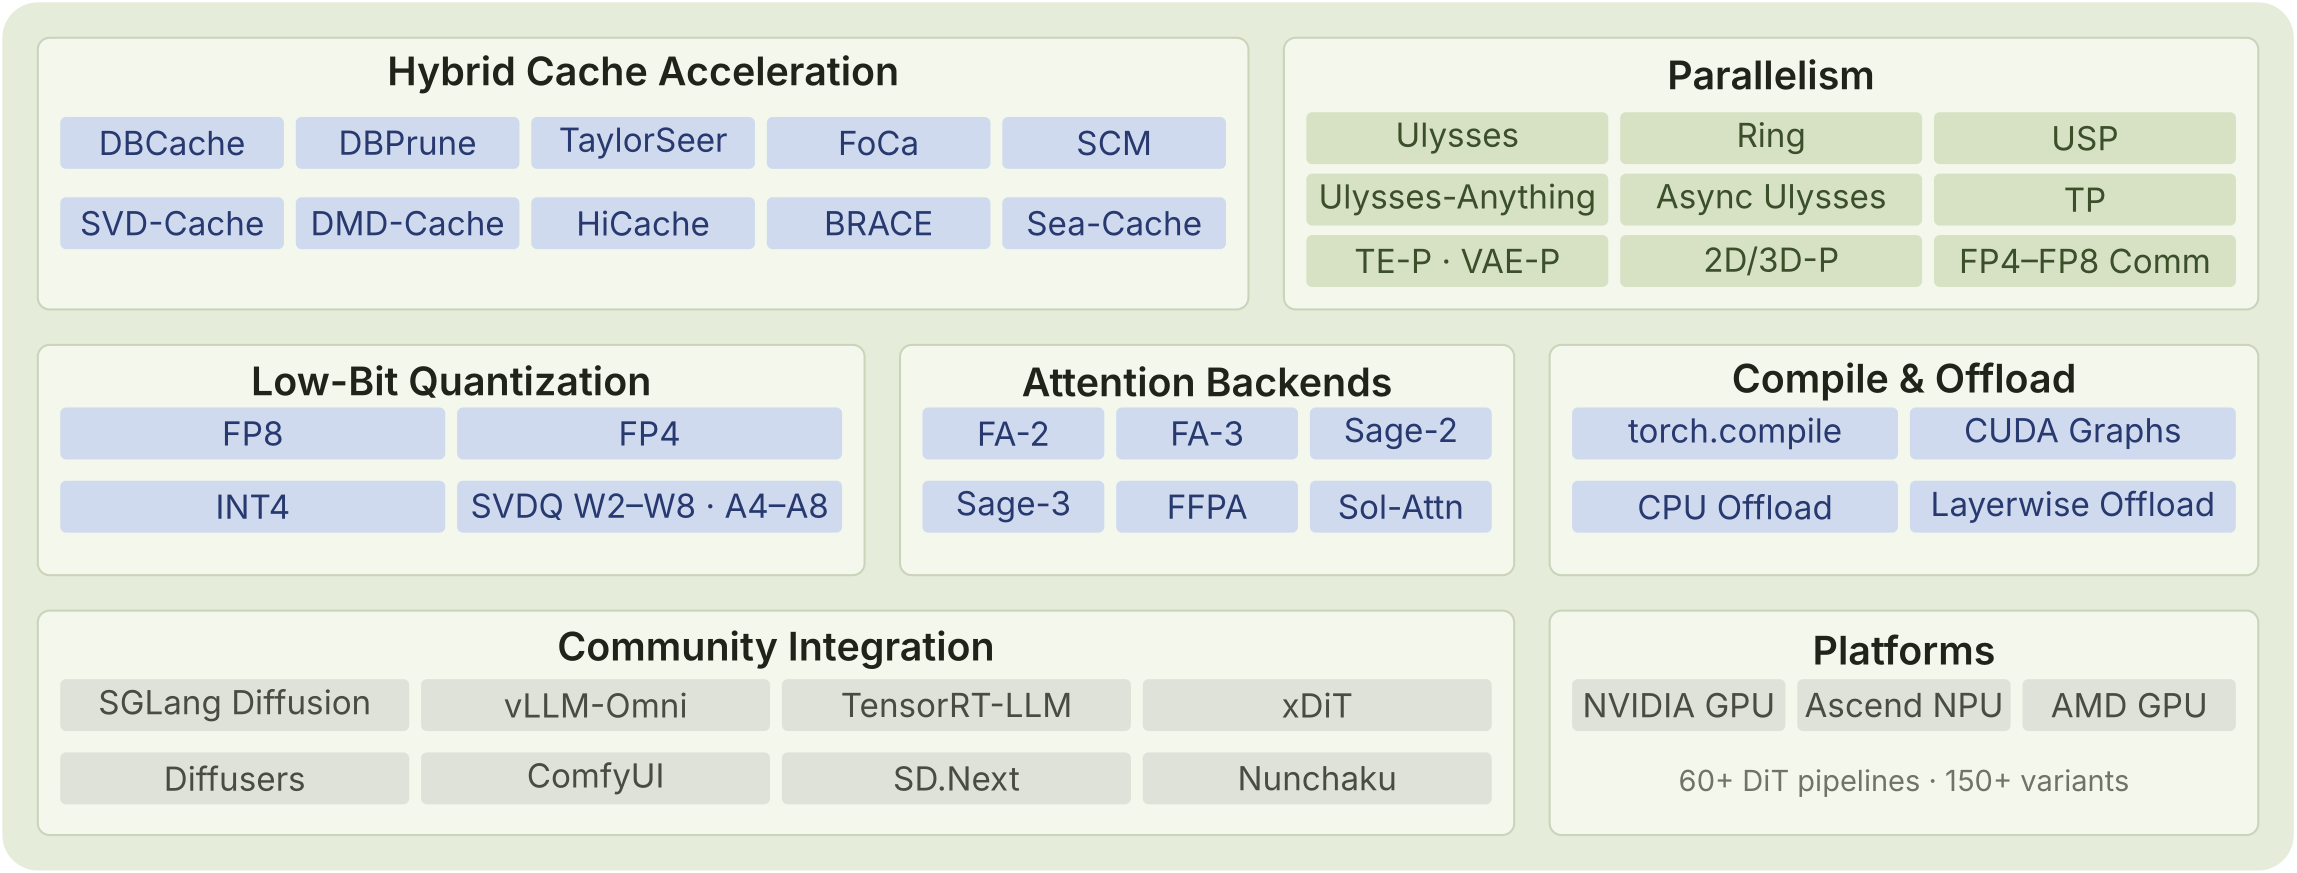
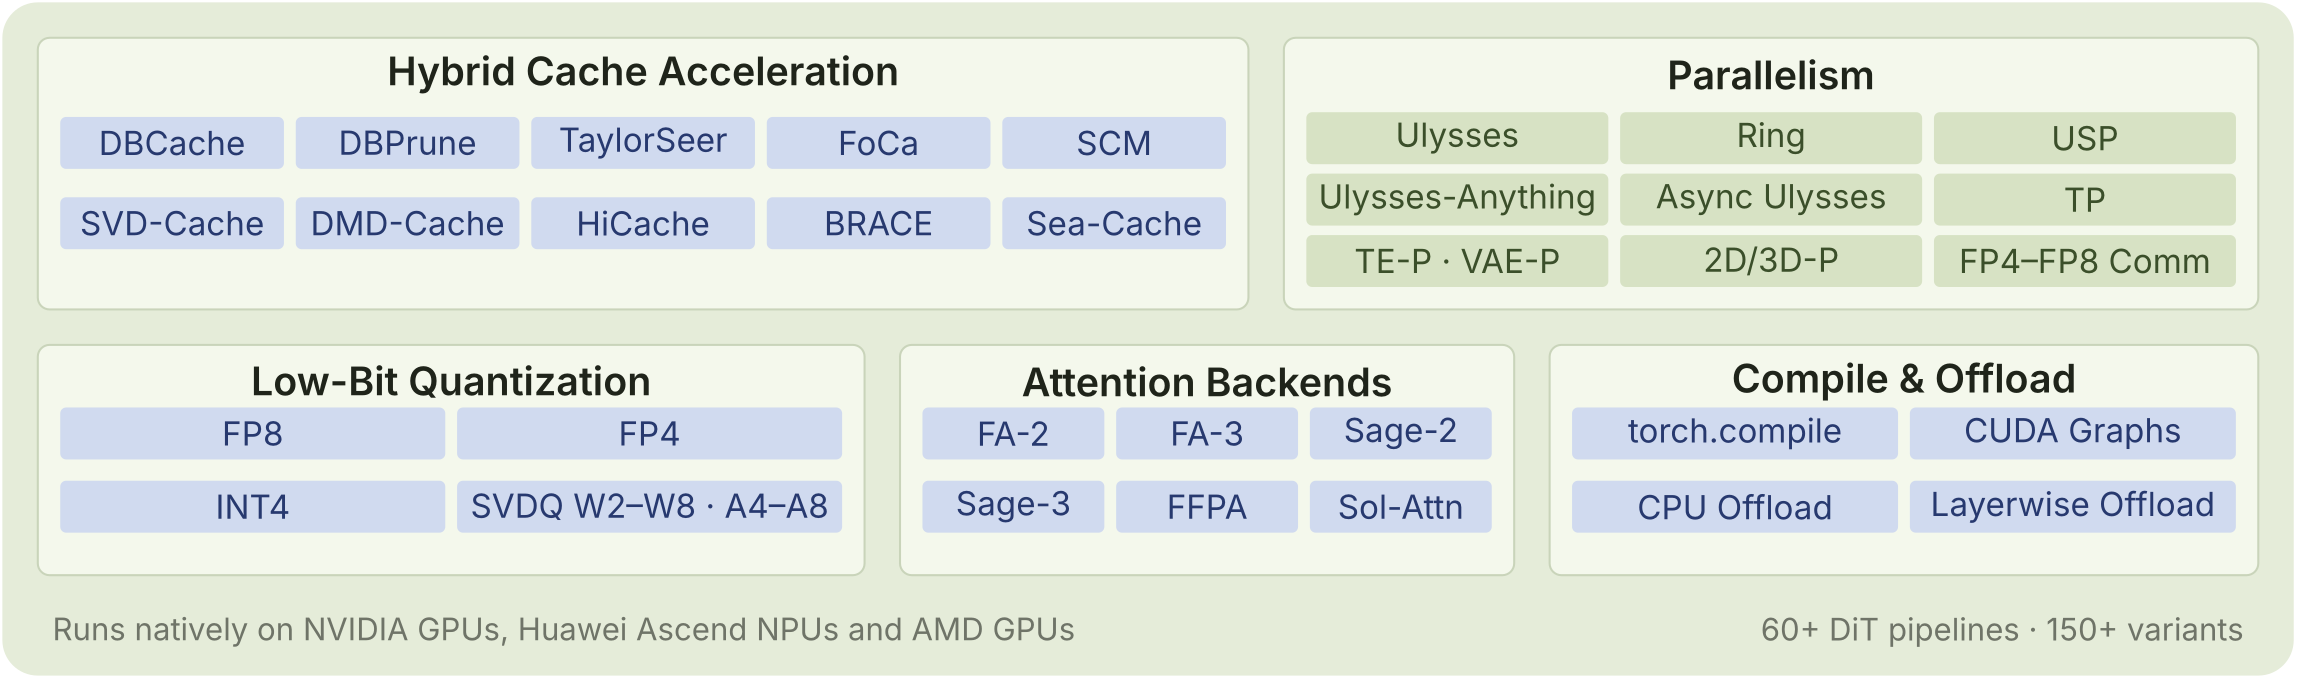
docs: drop the community panel from the architecture figure

diff --git a/docs/assets/tex/arch_v3.tex b/docs/assets/tex/arch_v3.tex
@@ -44,44 +44,37 @@
 
 \begin{document}
 \begin{tikzpicture}[x=1cm, y=1cm]
-  \path[use as bounding box] (-0.02,-0.02) rectangle (19.42,7.37);
-  \fill[bg, rounded corners=0.30cm] (0,0) rectangle (19.40,7.35);
+  \path[use as bounding box] (-0.02,-0.02) rectangle (19.42,5.72);
+  \fill[bg, rounded corners=0.30cm] (0,0) rectangle (19.40,5.70);
 
-  \panel{0.30}{4.75}{10.55}{7.05}
-  \ptitle{5.425}{6.74}{Hybrid Cache Acceleration}
-  \pillrow{6.16}{0.44}{1.994}{bpill}{DBCache, DBPrune, TaylorSeer, FoCa, SCM}
-  \pillrow{5.48}{0.44}{1.994}{bpill}{SVD-Cache, DMD-Cache, HiCache, BRACE, Sea-Cache}
+  \panel{0.30}{3.10}{10.55}{5.40}
+  \ptitle{5.425}{5.09}{Hybrid Cache Acceleration}
+  \pillrow{4.51}{0.44}{1.994}{bpill}{DBCache, DBPrune, TaylorSeer, FoCa, SCM}
+  \pillrow{3.83}{0.44}{1.994}{bpill}{SVD-Cache, DMD-Cache, HiCache, BRACE, Sea-Cache}
 
-  \panel{10.85}{4.75}{19.10}{7.05}
-  \ptitle{14.975}{6.74}{Parallelism}
-  \pillrow{6.20}{10.99}{2.657}{spill}{Ulysses, Ring, USP}
-  \pillrow{5.68}{10.99}{2.657}{spill}{Ulysses-Anything, Async Ulysses, TP}
-  \pillrow{5.16}{10.99}{2.657}{spill}{TE-P \textperiodcentered\ VAE-P, 2D/3D-P, FP4--FP8 Comm}
+  \panel{10.85}{3.10}{19.10}{5.40}
+  \ptitle{14.975}{5.09}{Parallelism}
+  \pillrow{4.55}{10.99}{2.657}{spill}{Ulysses, Ring, USP}
+  \pillrow{4.03}{10.99}{2.657}{spill}{Ulysses-Anything, Async Ulysses, TP}
+  \pillrow{3.51}{10.99}{2.657}{spill}{TE-P \textperiodcentered\ VAE-P, 2D/3D-P, FP4--FP8 Comm}
 
-  \panel{0.30}{2.50}{7.30}{4.45}
-  \ptitle{3.80}{4.14}{Low-Bit Quantization}
-  \pillrow{3.70}{0.44}{3.36}{bpill}{FP8, FP4}
-  \pillrow{3.08}{0.44}{3.36}{bpill}{INT4, SVDQ W2--W8 \textperiodcentered\ A4--A8}
+  \panel{0.30}{0.85}{7.30}{2.80}
+  \ptitle{3.80}{2.49}{Low-Bit Quantization}
+  \pillrow{2.05}{0.44}{3.36}{bpill}{FP8, FP4}
+  \pillrow{1.43}{0.44}{3.36}{bpill}{INT4, SVDQ W2--W8 \textperiodcentered\ A4--A8}
 
-  \panel{7.60}{2.50}{12.80}{4.45}
-  \ptitle{10.20}{4.14}{Attention Backends}
-  \pillrow{3.70}{7.74}{1.64}{bpill}{FA-2, FA-3, Sage-2}
-  \pillrow{3.08}{7.74}{1.64}{bpill}{Sage-3, FFPA, Sol-Attn}
+  \panel{7.60}{0.85}{12.80}{2.80}
+  \ptitle{10.20}{2.49}{Attention Backends}
+  \pillrow{2.05}{7.74}{1.64}{bpill}{FA-2, FA-3, Sage-2}
+  \pillrow{1.43}{7.74}{1.64}{bpill}{Sage-3, FFPA, Sol-Attn}
 
-  \panel{13.10}{2.50}{19.10}{4.45}
-  \ptitle{16.10}{4.14}{Compile \& Offload}
-  \pillrow{3.70}{13.24}{2.86}{bpill}{torch.compile, CUDA Graphs}
-  \pillrow{3.08}{13.24}{2.86}{bpill}{CPU Offload, Layerwise Offload}
+  \panel{13.10}{0.85}{19.10}{2.80}
+  \ptitle{16.10}{2.49}{Compile \& Offload}
+  \pillrow{2.05}{13.24}{2.86}{bpill}{torch.compile, CUDA Graphs}
+  \pillrow{1.43}{13.24}{2.86}{bpill}{CPU Offload, Layerwise Offload}
 
-  \panel{0.30}{0.30}{12.80}{2.20}
-  \ptitle{6.55}{1.87}{Community Integration}
-  \pillrow{1.40}{0.44}{3.055}{gpill}{SGLang Diffusion, vLLM-Omni, TensorRT-LLM, xDiT}
-  \pillrow{0.78}{0.44}{3.055}{gpill}{Diffusers, ComfyUI, SD.Next, Nunchaku}
-
-  \panel{13.10}{0.30}{19.10}{2.20}
-  \ptitle{16.10}{1.87}{Platforms}
-  \pillrow{1.40}{13.24}{1.9067}{gpill}{NVIDIA GPU, Ascend NPU, AMD GPU}
-  \node[text=muted] at (16.10,0.74) {\fontsize{7}{8}\selectfont 60+ DiT pipelines \textperiodcentered\ 150+ variants};
+  \node[anchor=west, text=muted] at (0.30,0.37) {\fontsize{7.5}{9}\selectfont Runs natively on NVIDIA GPUs, Huawei Ascend NPUs and AMD GPUs};
+  \node[anchor=east, text=muted] at (19.10,0.37) {\fontsize{7.5}{9}\selectfont 60+ DiT pipelines \textperiodcentered\ 150+ variants};
 
 \end{tikzpicture}
 \end{document}
